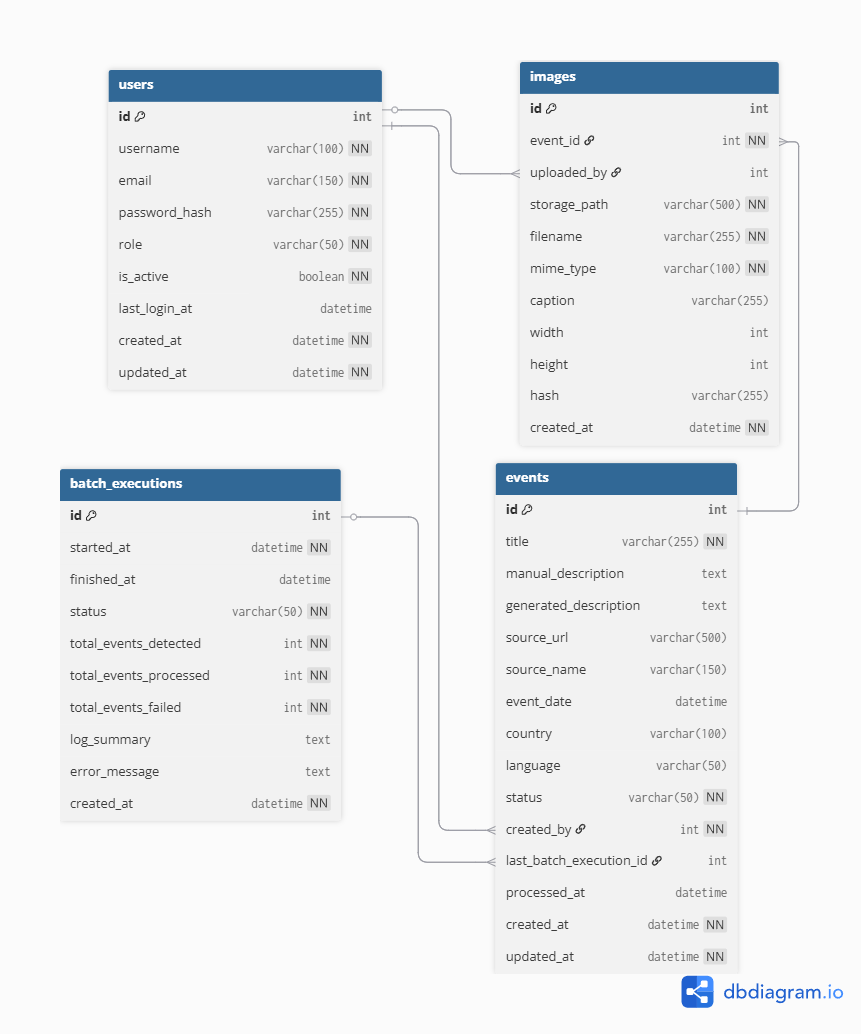
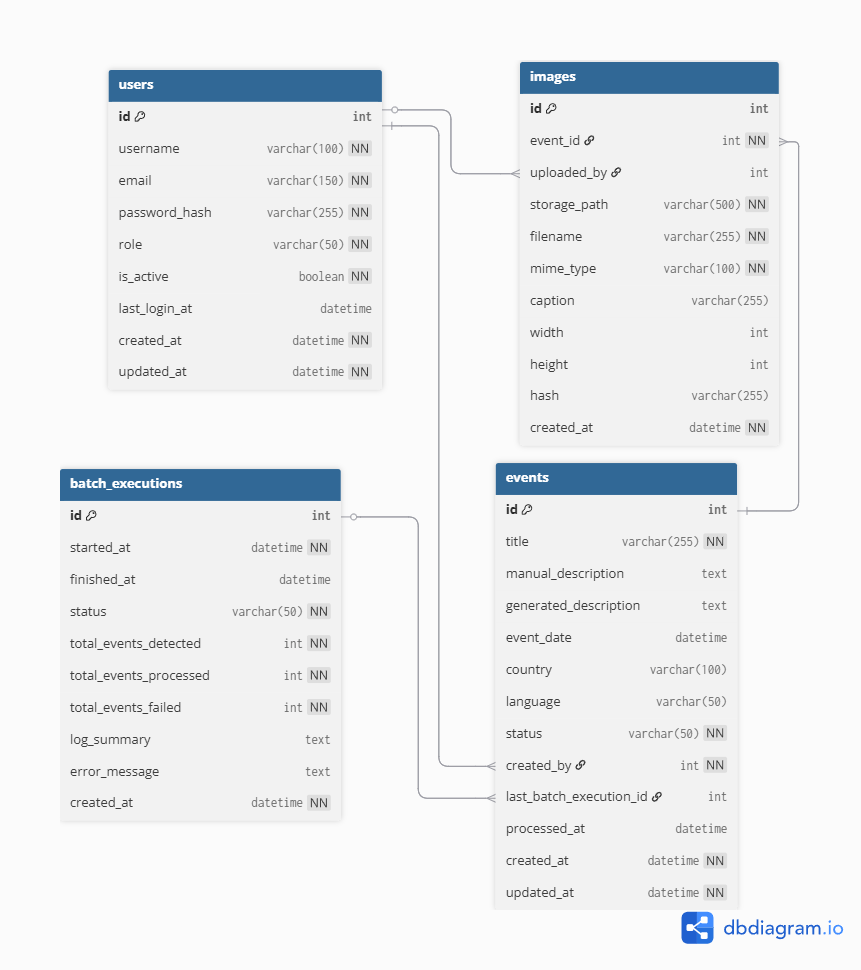
fix: Drop unusued event columns

Changed region(s): [[0.4832, 0.0619, 0.9663, 0.9897], [0.0604, 0.433, 0.4228, 0.8351], [0.1208, 0.0619, 0.5134, 0.4021]]

diff --git a/app/api/alembic/versions/0001_initial.py b/app/api/alembic/versions/0001_initial.py
@@ -53,8 +53,6 @@ def upgrade() -> None:
         sa.Column("title", sa.String(length=255), nullable=False),
         sa.Column("manual_description", sa.Text(), nullable=True),
         sa.Column("generated_description", sa.Text(), nullable=True),
-        sa.Column("source_url", sa.String(length=500), nullable=True),
-        sa.Column("source_name", sa.String(length=150), nullable=True),
         sa.Column("event_date", sa.DateTime(), nullable=True),
         sa.Column("country", sa.String(length=100), nullable=True),
         sa.Column("language", sa.String(length=50), nullable=True),

diff --git a/app/api/models.py b/app/api/models.py
@@ -42,8 +42,6 @@ class Event(Base):
     title: Mapped[str] = mapped_column(String(255), nullable=False)
     manual_description: Mapped[str | None] = mapped_column(Text, nullable=True)
     generated_description: Mapped[str | None] = mapped_column(Text, nullable=True)
-    source_url: Mapped[str | None] = mapped_column(String(500), nullable=True)
-    source_name: Mapped[str | None] = mapped_column(String(150), nullable=True)
     event_date: Mapped[datetime | None] = mapped_column(DateTime, nullable=True)
     country: Mapped[str | None] = mapped_column(String(100), nullable=True)
     language: Mapped[str | None] = mapped_column(String(50), nullable=True)